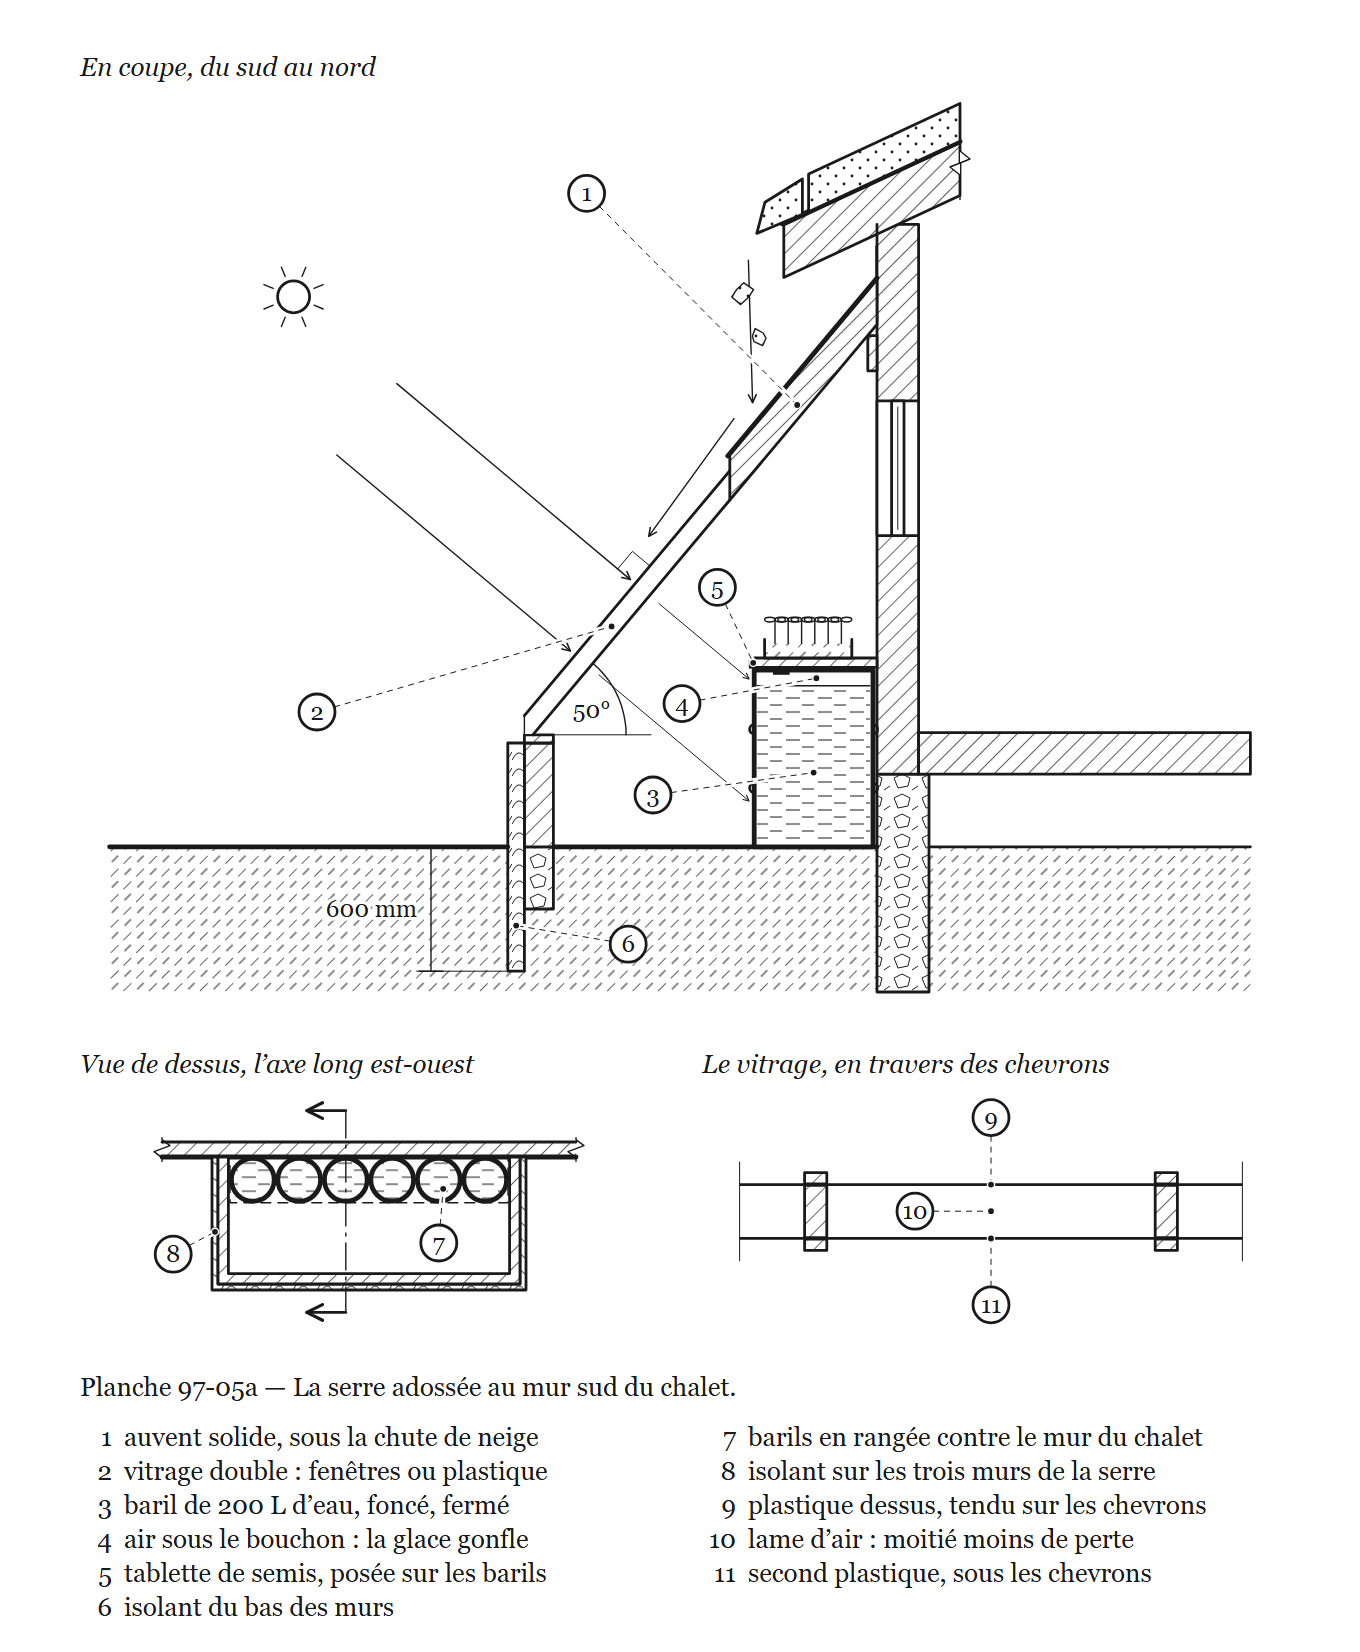
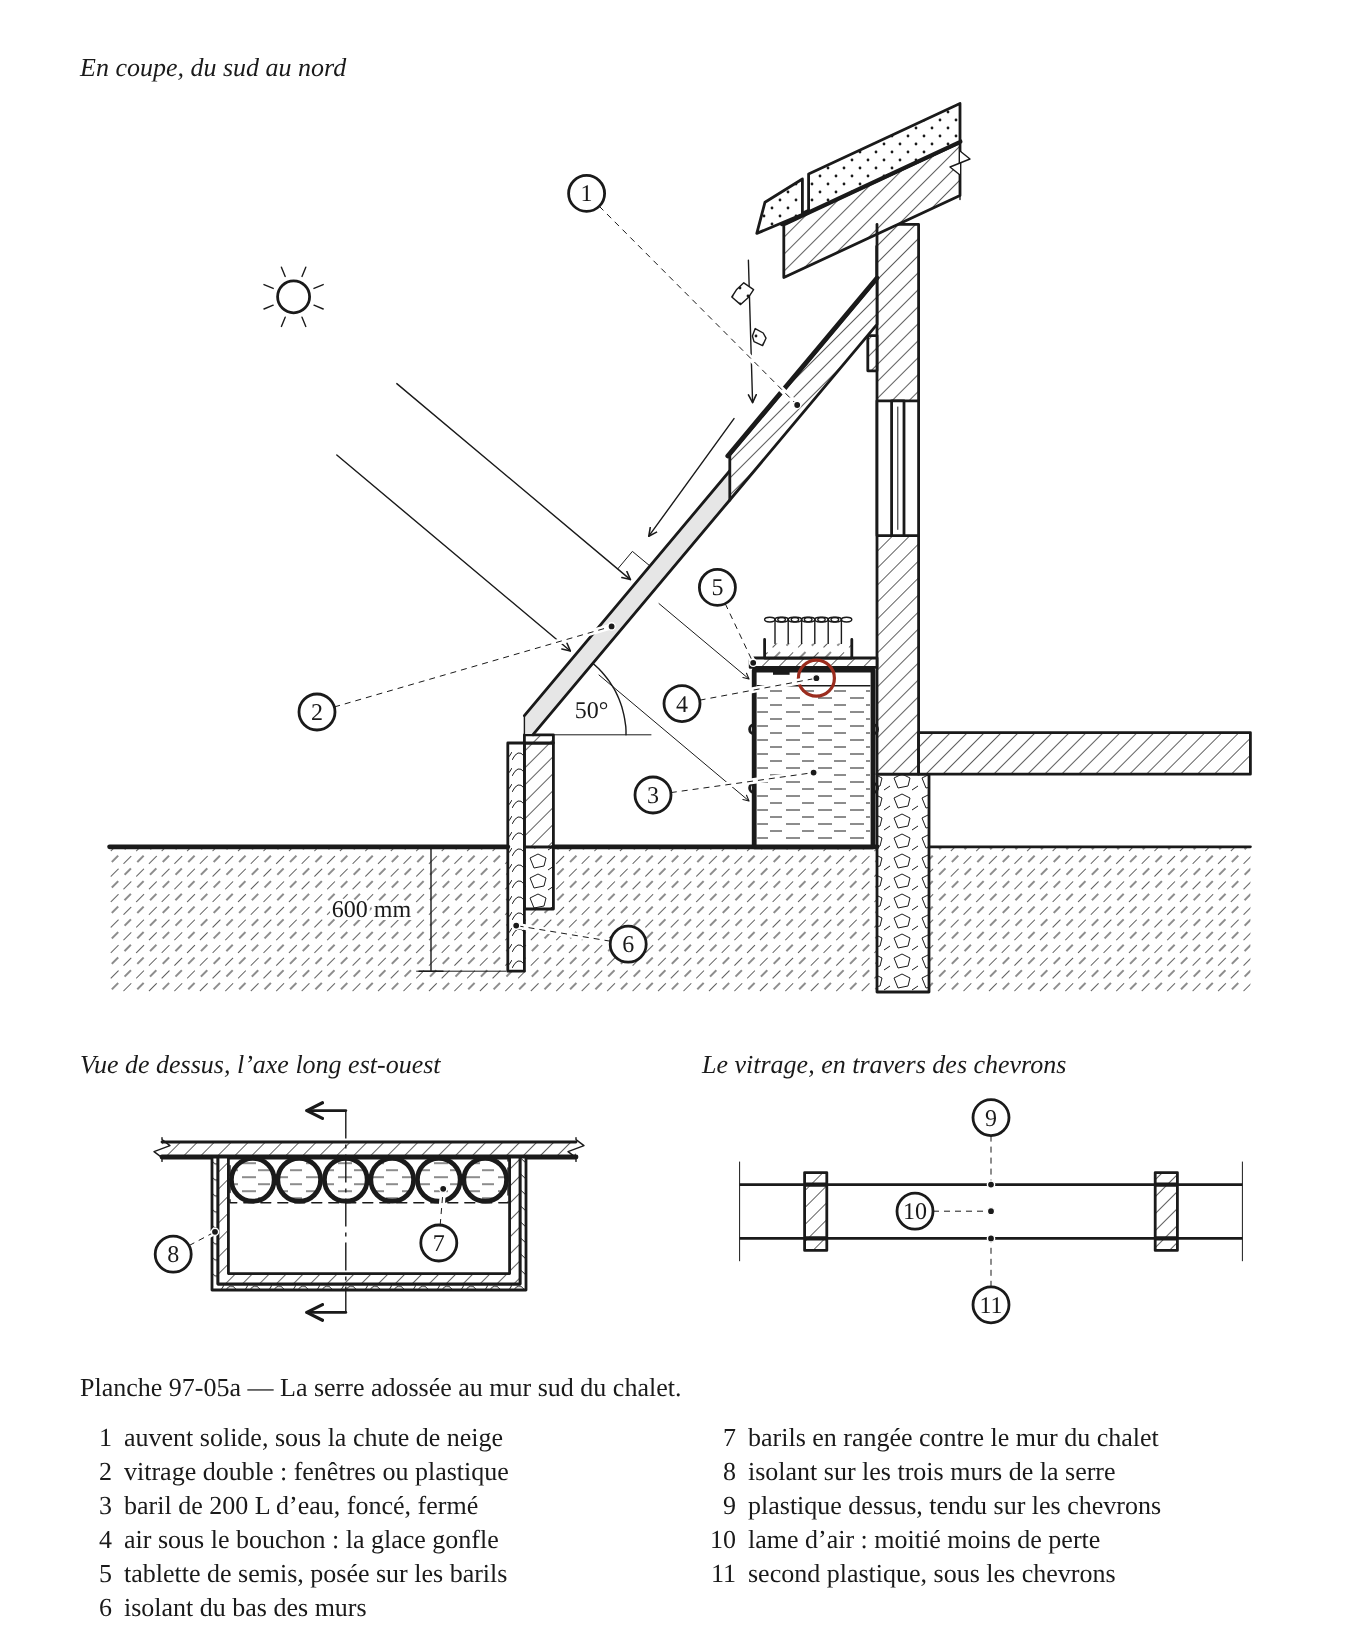
Charte : lot 9, paquet 1 (7 planches)
Claude-Session: https://claude.ai/code/session_014xDY5FLxFXDJt3nYAYznSZ

diff --git a/images/planches-src/86-01a.js b/images/planches-src/86-01a.js
@@ -8,6 +8,10 @@
 // du bassin : pas de siphon, l'eau coule seule. Le jet tombe juste passé le sommet, côté aval :
 // les augets de droite se remplissent, la roue tourne dans le sens horaire (vue de la berge),
 // les augets se vident en bas à droite, le bas de la roue (0,14) reste hors de l'eau de fuite (0).
+//
+// La charte : dans la roue disque avant enlevé, le disque arrière, derrière les augets, en gris
+// loin ; les cruches restent blanches devant. Coupes et plan sans gris. Pas de rouge : la roue
+// tourne et l'eau coule (flèches noires), et le chapitre ne nomme pas de point à contrôler ici.
 
 const X0 = -0.15, XL = 7.4;                 // étendue en x de la coupe et du plan
 const WS = 1.55, BED = 0.95;                // surface et fond du bassin
@@ -221,12 +225,13 @@ module.exports = (h) => {
           // eau de fuite
           o.push(poly(P, [[-0.8, -0.64], [0.74, -0.64], [0.74, -0.74], [-0.8, -0.74]], EAU));
           o.push(trait(P, [[-0.8, -0.64], [0.74, -0.64]], h.a.detail));
-          // disque arrière
-          o.push(h.cercle(...P(0, 0), R * s, BL));
+          // disque arrière, derrière les augets : en gris loin
+          o.push(h.cercle(...P(0, 0), R * s, h.a.loin), h.cercle(...P(0, 0), R * s, h.a.contour));
           o.push(h.cercle(...P(0, 0), 0.08 * s, h.a.arete), h.cercle(...P(0, 0), 0.025 * s, h.a.plein));
           // augets : eau du côté qui descend, vides en bas et du côté qui monte
           for (const th of ANGLES) {
             const a = auget(th), ferme = a.pts;
+            o.push(poly(P, ferme, h.a.blanc));
             if (th >= 20 && th <= 140) {
               const ymin = Math.min(...ferme.map(p => p[1])), lip = Math.min(a.levres[0][1], a.levres[1][1]);
               if (lip - ymin > 0.01) {

diff --git a/images/planches-src/100-05.js b/images/planches-src/100-05.js
@@ -122,7 +122,7 @@ module.exports = (h) => {
     // pas de mains : une flèche courbe dit qu'on bascule lentement
     // charte : le geste en rouge dans la vue où c'est lui qu'on montre
     // (hors du chaudron, à gauche : le fond remonte quand on bascule)
-    const dB = `M ${f(rx - 34)} ${f(ry + 30)} Q ${f(rx - 46)} ${f(ry + 6)} ${f(rx - 33)} ${f(ry - 2)}`;
+    const dB = `M ${f(rx - 30)} ${f(ry + 30)} Q ${f(rx - 41)} ${f(ry + 8)} ${f(rx - 31)} ${f(ry - 3)}`;
     o.push(rouge ? h.geste(dB) : h.fleche(dB, h.a.detail));
     return { o, traj, px, py, xC };
   };
@@ -183,7 +183,7 @@ module.exports = (h) => {
           const T3 = [(1 - t) ** 2 * xs + 2 * t * (1 - t) * cx + t * t * xe, (1 - t) ** 2 * ys + 2 * t * (1 - t) * cy + t * t * ye];
           return [
             { n: 1, rond: [f(wx + ep + 26), f(yL - 60)], cible: [f(px - 12), f(py - 14)], texte: 'chaudron qu’on verse, tenu haut' },
-            { n: 2, rond: [f(wx + ep + 22), f(yL - 16)], cible: [f(wx + ep + 22), f(yA[0] - 1.5)], texte: 'courant d’air par la porte' },
+            { n: 2, rond: [f(wx + ep + 12), f(yL - 16)], cible: [f(wx + ep + 12), f(yA[0] - 1.5)], texte: 'courant d’air par la porte' },
             { n: 3, rond: [f(z.l - 26), f(yL - 10)], cible: [f(T3[0]), f(T3[1])], texte: 'débris légers, emportés plus loin' },
             { n: 4, rond: [f(xL - 42), f((yA[1] + yA[2]) / 2)], cible: [f(xL - 3), f((yA[1] + yA[2]) / 2)], texte: 'graine, plus dense, tombe court' },
             { n: 5, rond: [f(xL - 42), f(G - 16)], cible: [f(xL + 3 - W / 2 - 1), f(G - 12)], texte: 'chaudron qui reçoit la graine' },

diff --git a/images/planches-src/97-05a.js b/images/planches-src/97-05a.js
@@ -136,7 +136,9 @@ function serre(h) {
     out.push(chemin(Pl([[XW - 45, yi(XW - 45) - 170], [XW, yi(XW - 45) - 170], [XW, yi(XW - 45)], [XW - 45, yi(XW - 45)]]), fond(h.a.hachure('bois', 'arete')), true));
     // le chevron vu au-delà de la coupe, du muret au mur
     const XH = o.haut === 'ouvert' ? [XA - 380, XA - 40] : null;   // l'ouverture haute, sous l'auvent
-    out.push(chemin(Pl([[0, 540], [0, yo(0)], [XW, yo(XW)], [XW, yi(XW)], [40, 540]]), blanc(h.a.detail), true));
+    // La charte : ce chevron est derrière le plan de coupe, il recule en gris loin
+    out.push(chemin(Pl([[0, 540], [0, yo(0)], [XW, yo(XW)], [XW, yi(XW)], [40, 540]]), h.a.loin, true));
+    out.push(chemin(Pl([[0, 540], [0, yo(0)], [XW, yo(XW)], [XW, yi(XW)], [40, 540]]), h.a.detail, true));
     // les deux épaisseurs du vitrage, jusque sous l'auvent
     const feuille = (f, x0, x1) => h.ligne(...P(x0, f(x0)), ...P(x1, f(x1)), h.a.arete);
     if (XH) {
@@ -228,6 +230,8 @@ function serre(h) {
         out.push(h.ellipse(tp[0] + 2.6, tp[1] + 0.5, 2.6, 1.2, h.a.detail));
       }
       baril = { milieu: P(XB + BAR.l / 2, BAR.h * 0.42), air: P(XB + 300, BAR.h - 38), tablette: P(XB - 5, YT + 22) };
+      // La charte : le point à contrôler, l'air laissé sous le bouchon (plein presque à ras, pas à ras)
+      out.push(h.controle(...baril.air, 9));
     }
 
     return {

diff --git a/images/planches-src/89-01b.js b/images/planches-src/89-01b.js
@@ -3,7 +3,8 @@
 // les poids restent : le fût est une bande de 5 à 7 px, un contour fort le boucherait. Le rouge :
 // ramener le côté au trait (le geste, sur le gabarit), écarter les bouts (le geste, aux
 // traverses), la bande aussi large que le bois (le point à vérifier, étape 14) et, sur le raté,
-// l'écharde qui lève (l'endroit où ça casse).
+// l'écharde qui lève (l'endroit où ça casse). En passant : la ligne de rappel 10 courait le long
+// de la flèche et la hachait ; la pastille passe en bas à gauche.
 module.exports = (h) => ({
   ref: '89-01b',
   titre: 'Le fût de la raquette, cintrer et fermer',
@@ -112,7 +113,7 @@ module.exports = (h) => ({
       renvois: z => {
         const R = traverses(z);
         return [
-          { n: 10, rond: [z.l - 12, z.h - 44], cible: R.pFl, texte: 'corde ôtée, bouts écartés' },
+          { n: 10, rond: [R.pFl[0] - 34, z.h - 14], cible: [R.pFl[0] - 1.5, R.pFl[1] + 6], texte: 'corde ôtée, bouts écartés' },
           { n: 11, rond: [R.xT[0] - 26, 16], cible: R.pTrav, texte: 'traverse d’épinette sèche' },
         ];
       },

diff --git a/images/planches-src/107-10.js b/images/planches-src/107-10.js
@@ -185,7 +185,7 @@ module.exports = (h) => {
             trou(L.c[2], g.yc, L.r),
             filet(L.c[2], g.yc, L.r * 1.2),
             // la charte : le point à contrôler, le trou qui mord à moitié dans la vis d'avant
-            h.controle(L.c[2] - L.r, g.yc, L.r * 0.95),
+            h.controle(L.c[2] - L.r / 2, g.yc, L.r + 3),
           ].join('\n');
         },
         renvois: z => {
